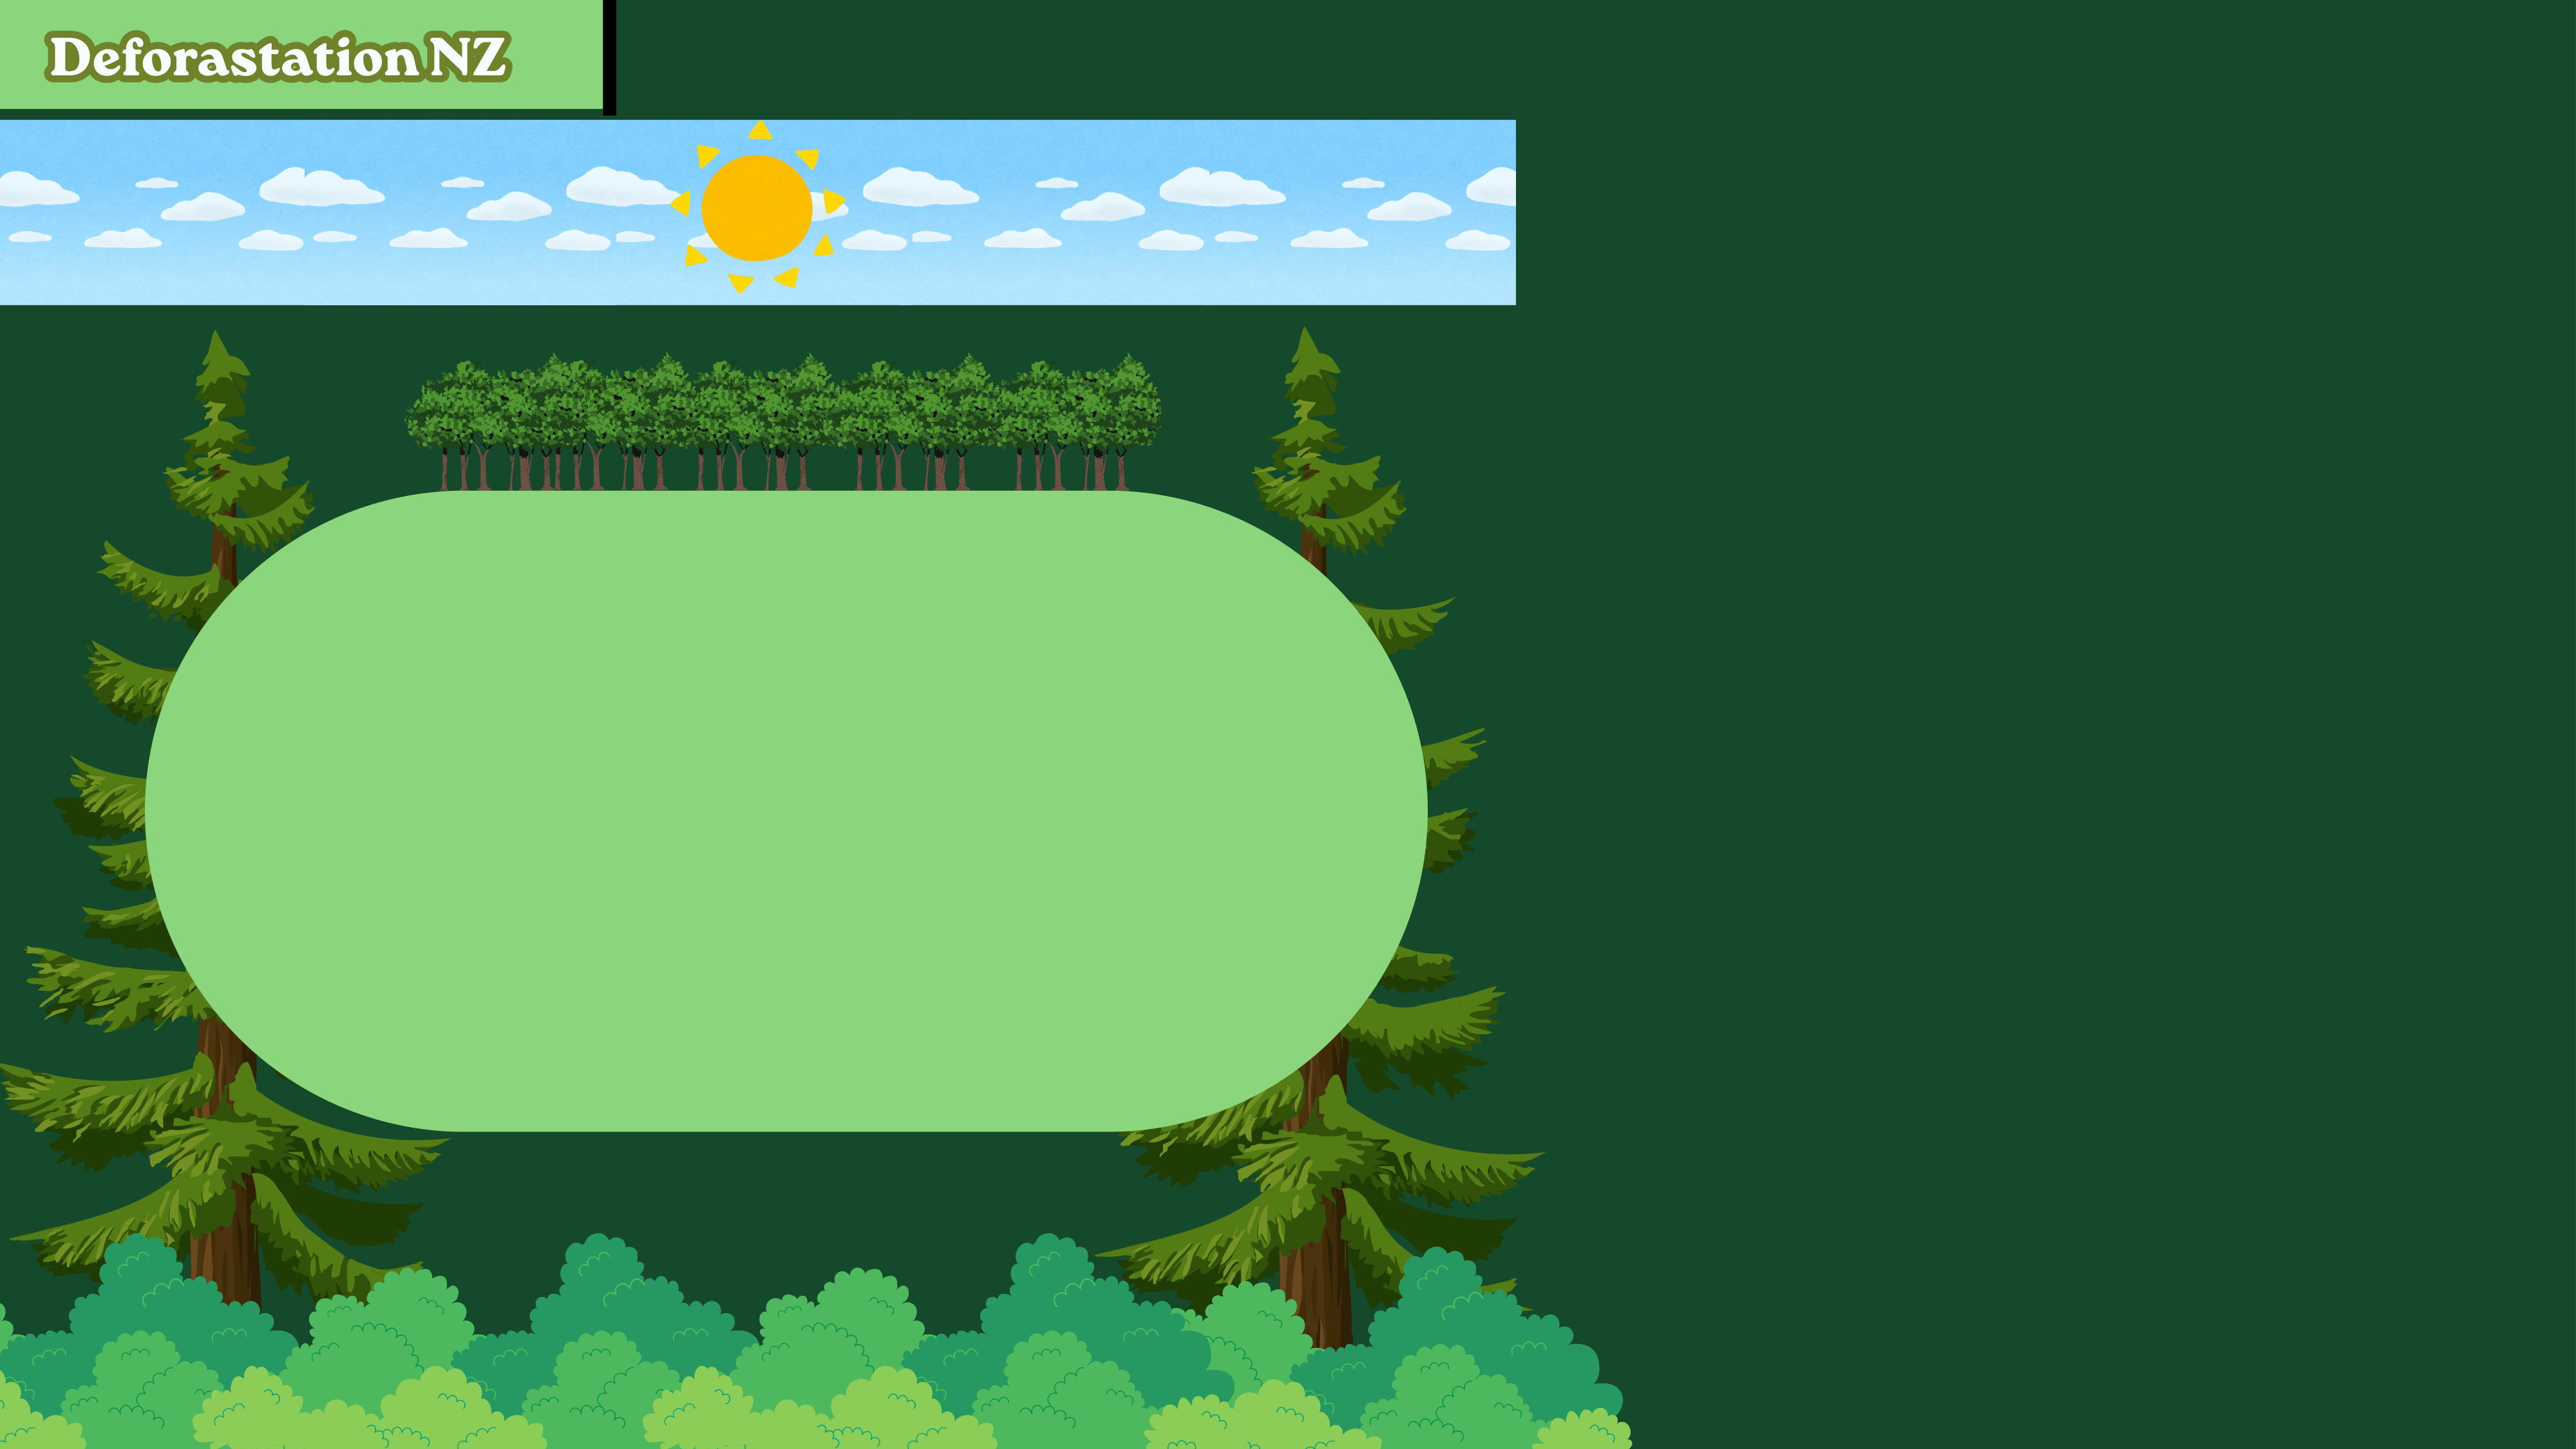
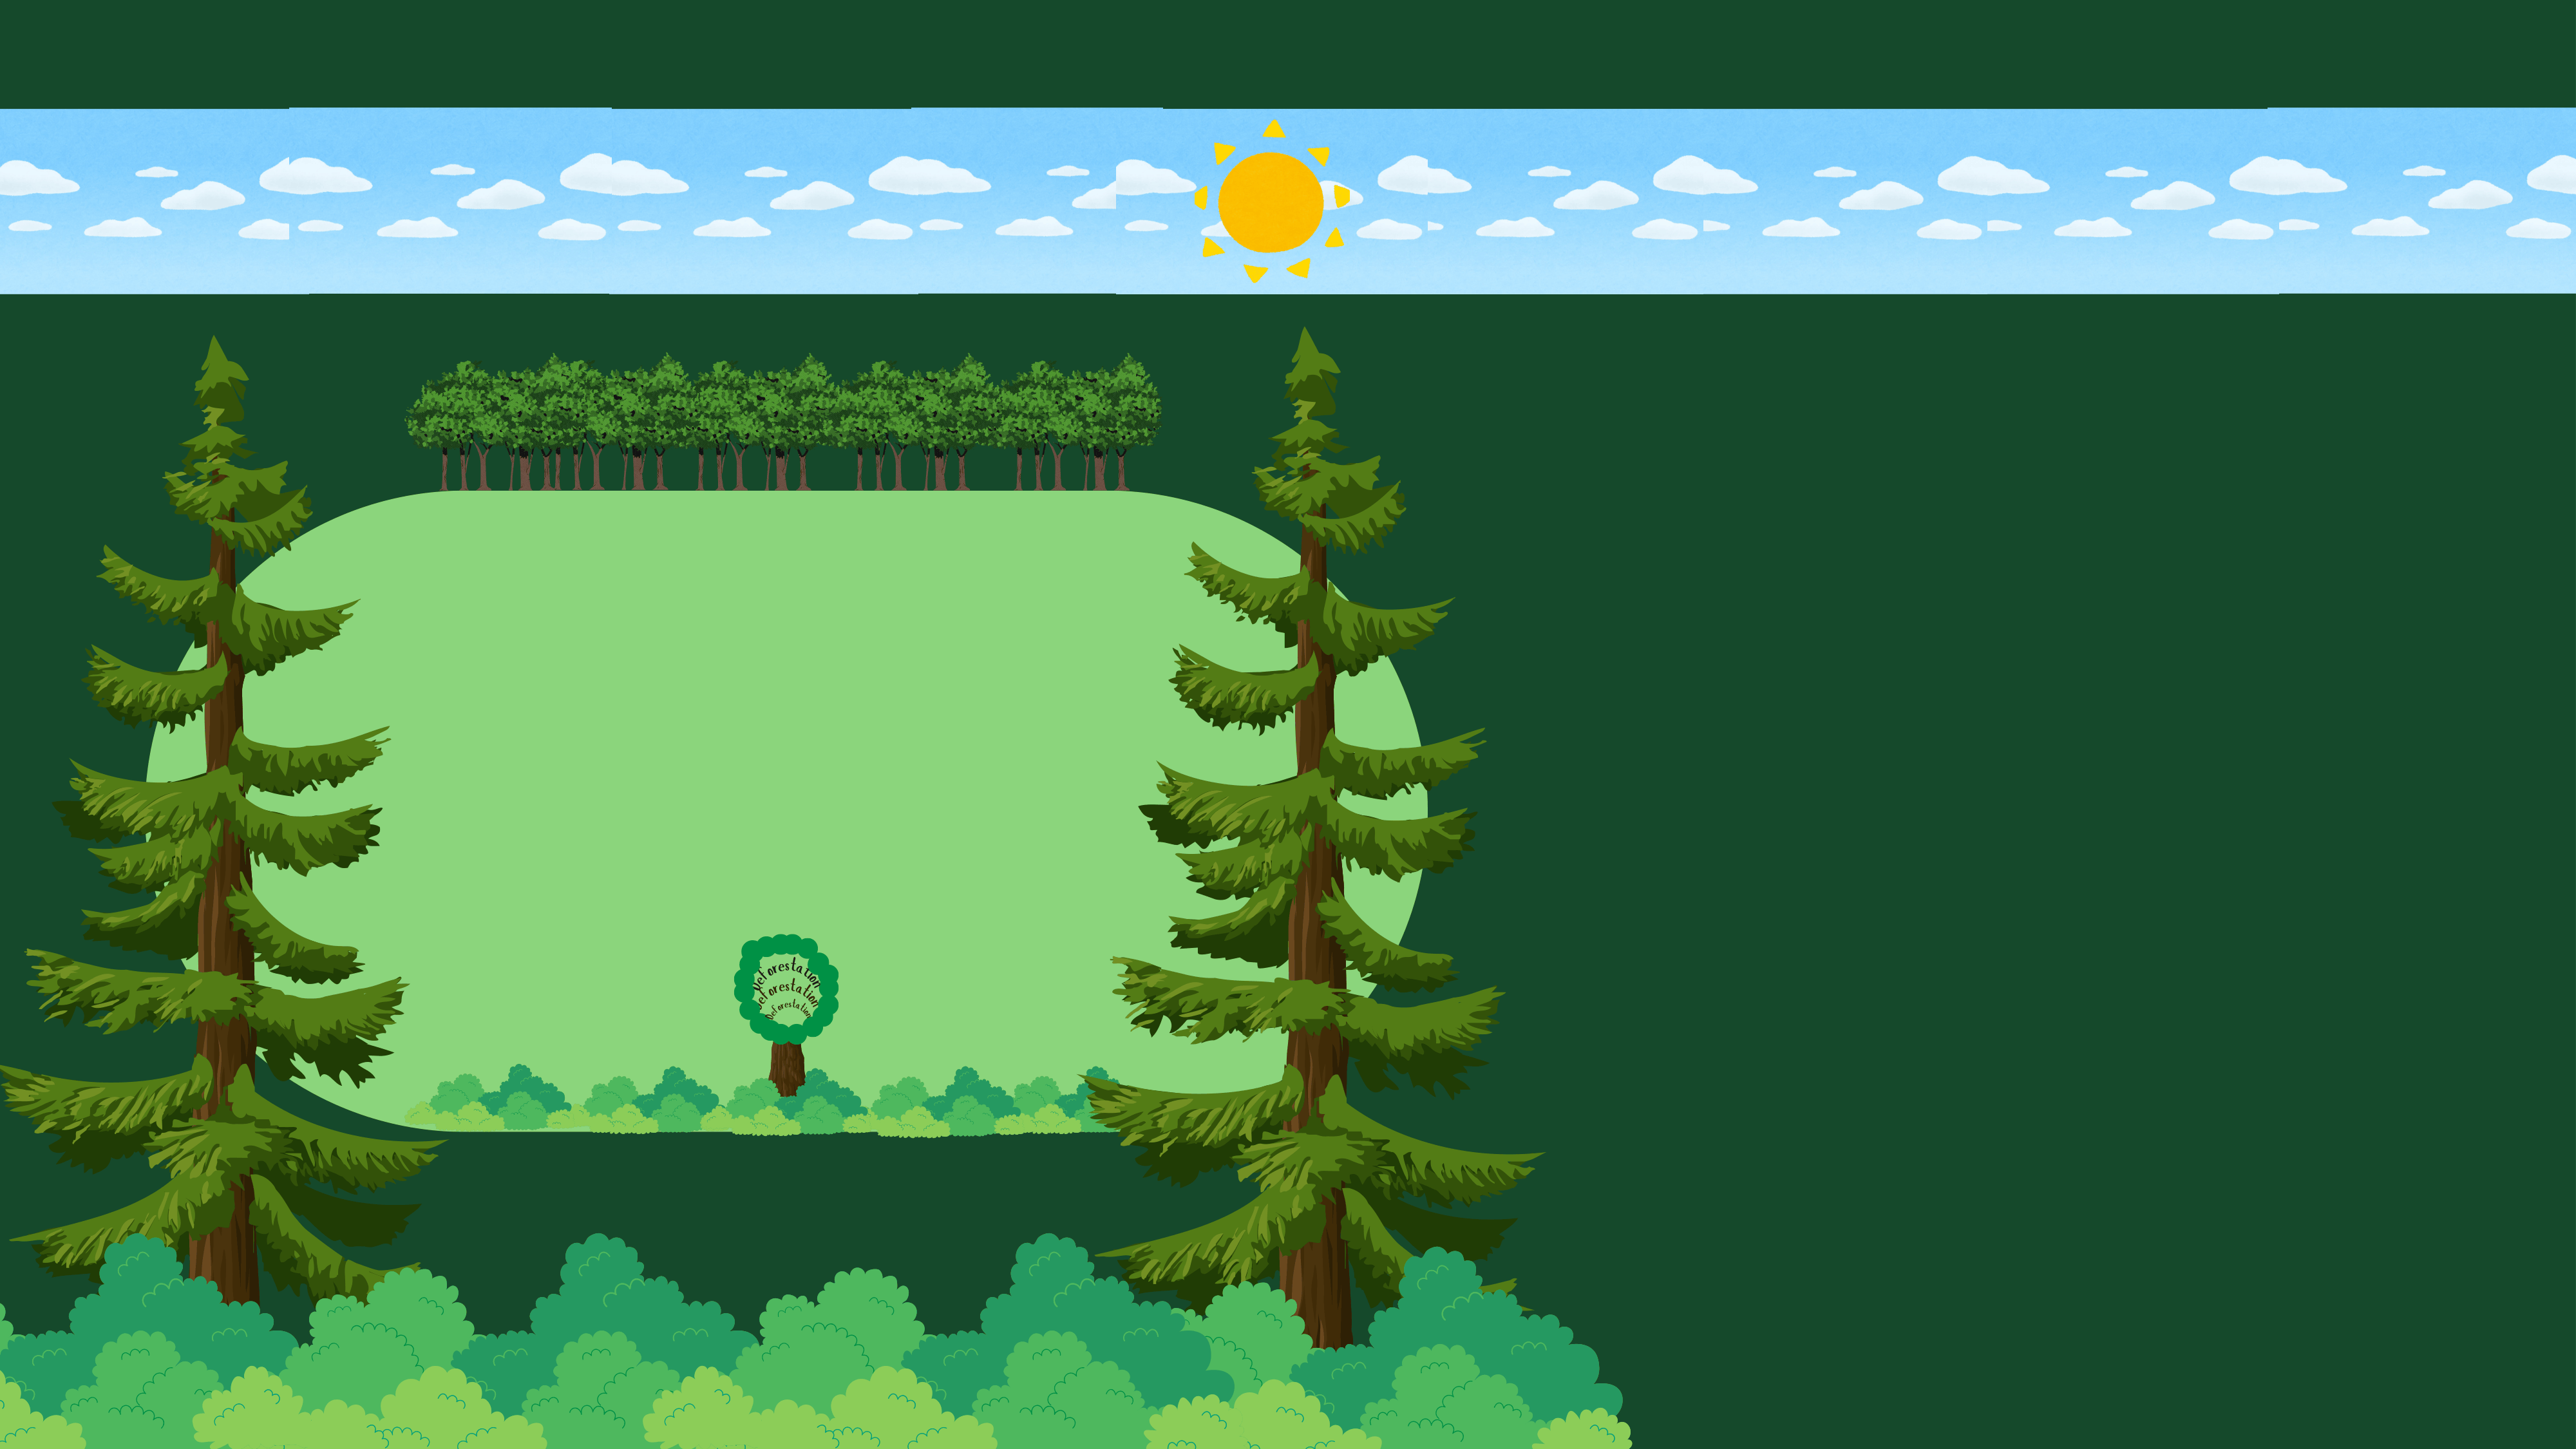
added new background the nav var agains

diff --git a/style.css b/style.css
@@ -1,18 +1,10 @@
 
-
-
-
-body{
-background-color:#40806a;
-}
-
-
 ul {
   list-style-type: none;
   margin: 0;
   padding: 0;
   overflow: hidden;
-  background-color: #333333;
+  background-color: ##111111;
 }
 
 ul li {
@@ -28,7 +20,7 @@ ul li a {
 }
 
 ul li a:hover {
-  background-color: #111111;
+  background-color: ##111111;
 }
 
 ul {

diff --git a/index.html b/index.html
@@ -8,6 +8,14 @@
 </head>
 <body>
 
+<ul>
+ <li><a href="#donation">Donation Page</a></li>
+ <li><a href="#Contact">Contact Page</a></li>
+ <li><a href="#information">Information Page</a></li>
+ <li><a href="#index">Home Page</a></li>
+</ul>
+
+
 </body>
 </html>
 